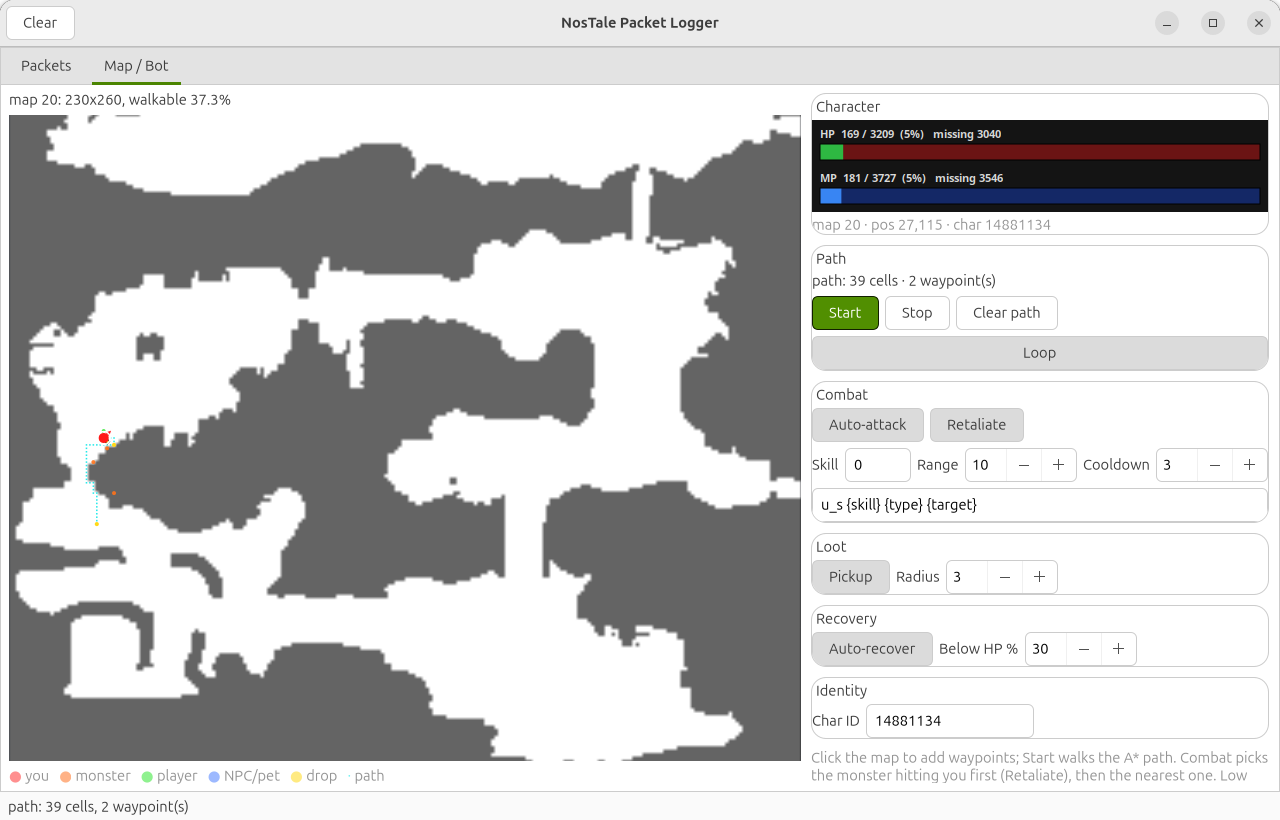
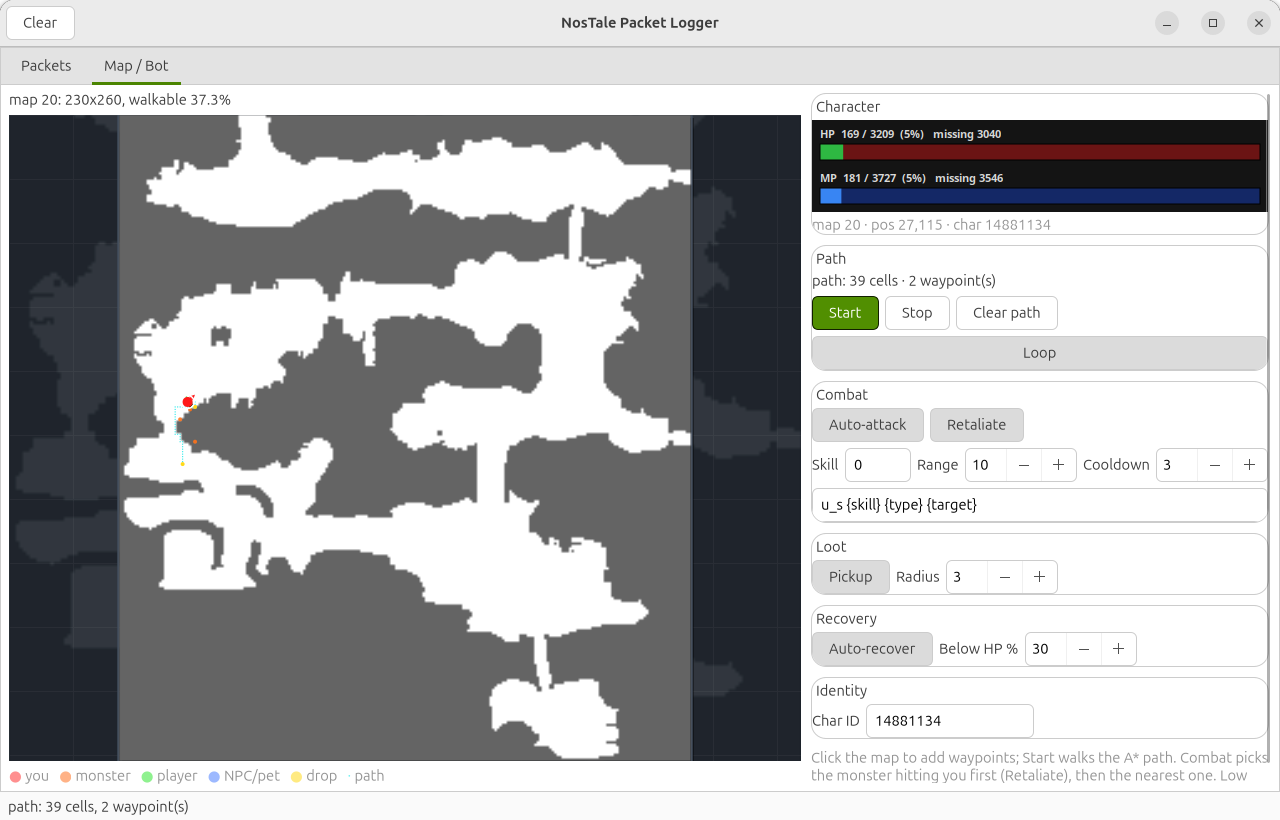
Show the whole map with a contain fit and a map-textured letterbox
The cover fit filled the widget but cropped the outer map. Switch to a
contain fit: the entire map is scaled to the largest size that fits, keeping
its aspect ratio. The unused area is painted with a dimmed copy of the same
map (not black), so the full map remains visible at any window size.

diff --git a/linux/host/ntpl/gui.py b/linux/host/ntpl/gui.py
@@ -617,27 +617,19 @@ class Application(Gtk.Application):
             self.map_area.queue_draw()
 
     def _map_geometry(self, width: int, height: int) -> tuple[float, float, float]:
-        """Return scale and top-left offset for a window-filling, player-centred map.
+        """Return scale and top-left offset that show the **whole** map.
 
-        The map uses a "cover" fit (the larger of the two ratios), so there are
-        no black letterbox bars when the window changes shape. The view is
-        centred on the own character and clamped so the surface always covers
-        the whole widget; terrain at the outer edge is cropped.
+        The map keeps its aspect ratio and is scaled to the largest size that
+        fits both dimensions (contain fit). Nothing is cropped, so this is the
+        maximum view of the map for the current window. The surrounding canvas
+        is filled with a dimmed copy of the map, so there is no black.
         """
         if self.map_grid is None or width <= 1 or height <= 1:
             return 1.0, 0.0, 0.0
-        scale = max(
-            width / self.map_grid.width,
-            height / self.map_grid.height,
-        )
+        scale = min(width / self.map_grid.width, height / self.map_grid.height)
         scale = max(0.15, scale)
-        position = self._player_cell()
-        if position is None:
-            position = (self.map_grid.width / 2, self.map_grid.height / 2)
-        offset_x = width / 2 - (position[0] * scale + scale / 2)
-        offset_y = height / 2 - (position[1] * scale + scale / 2)
-        offset_x = min(0.0, max(width - self.map_grid.width * scale, offset_x))
-        offset_y = min(0.0, max(height - self.map_grid.height * scale, offset_y))
+        offset_x = (width - self.map_grid.width * scale) / 2
+        offset_y = (height - self.map_grid.height * scale) / 2
         return scale, offset_x, offset_y
 
     # -- redraw scheduling ---------------------------------------------
@@ -819,13 +811,32 @@ class Application(Gtk.Application):
     # -- map drawing ----------------------------------------------------
 
     def _draw_map(self, _area, context, width: int, height: int) -> None:
-        # Fill the whole widget: the old ScrolledWindow left the unused part
-        # of the viewport black when the window was widened. The map keeps its
-        # aspect ratio and is centred; the surrounding canvas is a deliberate
-        # slate "blueprint" instead of a black hole.
+        # Fill the whole widget. The old ScrolledWindow left the unused part
+        # of the viewport black when the window was widened. The surrounding
+        # canvas is a dimmed, zoomed-out copy of the same map, so it reads as
+        # part of the map rather than a black hole.
         context.set_source_rgb(0.13, 0.16, 0.20)
         context.paint()
-        context.set_source_rgba(1.0, 1.0, 1.0, 0.06)
+
+        if self.map_surface is None or self.map_grid is None:
+            return
+
+        grid_for_bg = self.map_grid
+        bg_scale = max(
+            width / grid_for_bg.width,
+            height / grid_for_bg.height,
+        )
+        bg_x = (width - grid_for_bg.width * bg_scale) / 2
+        bg_y = (height - grid_for_bg.height * bg_scale) / 2
+        context.save()
+        context.translate(bg_x, bg_y)
+        context.scale(bg_scale, bg_scale)
+        context.set_source_surface(self.map_surface, 0, 0)
+        context.paint_with_alpha(0.26)
+        context.restore()
+        context.set_source_rgba(0.06, 0.08, 0.11, 0.55)
+        context.paint()
+        context.set_source_rgba(1.0, 1.0, 1.0, 0.045)
         context.set_line_width(1.0)
         for gx in range(0, width, 64):
             context.move_to(gx + 0.5, 0)
@@ -834,9 +845,6 @@ class Application(Gtk.Application):
             context.move_to(0, gy + 0.5)
             context.line_to(width, gy + 0.5)
         context.stroke()
-
-        if self.map_surface is None or self.map_grid is None:
-            return
 
         scale, ox, oy = self._map_geometry(width, height)
         grid = self.map_grid

diff --git a/CLAUDE.md b/CLAUDE.md
@@ -32,7 +32,7 @@ build); the fixed build is in the repo, and the client must be restarted.
 | `linux/` build | `make -C linux all test-host` is warning-free; all three outputs are PE32 i386. |
 | Linux host tests | 59/59 pass (`make -C linux host-test`). |
 | Map data | `NStcData.NOS` parsed (779 grids, one byte per cell). Live map is **20** (230x260); 100 % of 173,503 `mv` samples land on walkable `0x00` cells. |
-| Map UI / bot | GTK4 Map/Bot tab: responsive layout (map + sidebar, reflows under ~1050 px), auto-detected/auto-fitted map with no manual map/scale/center controls, structured sidebar (Character HP/MP bars, Path, Combat, Loot, Recovery, Identity), drops + A* path + loop + auto-attack/Retaliate + pickup + low-HP sit/recover, bigger own dot + facing arrow. `make gui-test` and `make bot-test` (3 smokes) pass. |
+| Map UI / bot | GTK4 Map/Bot tab: responsive layout (map + sidebar, reflows under ~1050 px), auto-detected whole-map (contain-fit) map with no manual map/scale/center controls, structured sidebar (Character HP/MP bars, Path, Combat, Loot, Recovery, Identity), drops + A* path + loop + auto-attack/Retaliate + pickup + low-HP sit/recover, bigger own dot + facing arrow. `make gui-test` and `make bot-test` (3 smokes) pass. |
 | x86 hook stubs | `HookStubTest.exe` (Wine) calls the real `hooks.S` detours and verifies the EDX packet pointer at `20(%ebp)`, the original-call replay and the send trampoline. Passes. |
 | GUI | Headless GTK4 smoke test passes (`make -C linux gui-test`, Xvfb): fake stream → 2 rows + STATUS in the status bar. |
 | Injector | Verified under Wine end-to-end against both the fake target and the live client (PID 1216): remote `LoadLibraryA` succeeds and the DLL starts. |

diff --git a/docs/map.md b/docs/map.md
@@ -86,9 +86,10 @@ grouped by function:
 
 - **Map bar** — only the live map info (id, size, walkable %). There is no Map
   ID/Load/Auto-detect/Scale/Center control: the map is selected automatically
-  (from `c_map`/`at`, or ranked by live player positions every 2 s) and is
-  fitted to the widget with a "cover" scale. It follows the own character and
-  crops the outer terrain; there are no black letterbox bars.
+  (from `c_map`/`at`, or ranked by live player positions every 2 s) and uses a
+  "contain" fit: the **whole map** is scaled to the largest size that fits the
+  widget, with its aspect ratio fixed. The letterbox area is a dimmed copy of
+  the same map, so it reads as part of the map instead of black bars.
 - **Character** — live HP and MP bars with current/max/missing values, plus
   map/position/char id. HP and MP are fed by the server's `stat` packets.
 - **Path** — path summary, Start, Stop, Clear path, Loop.
